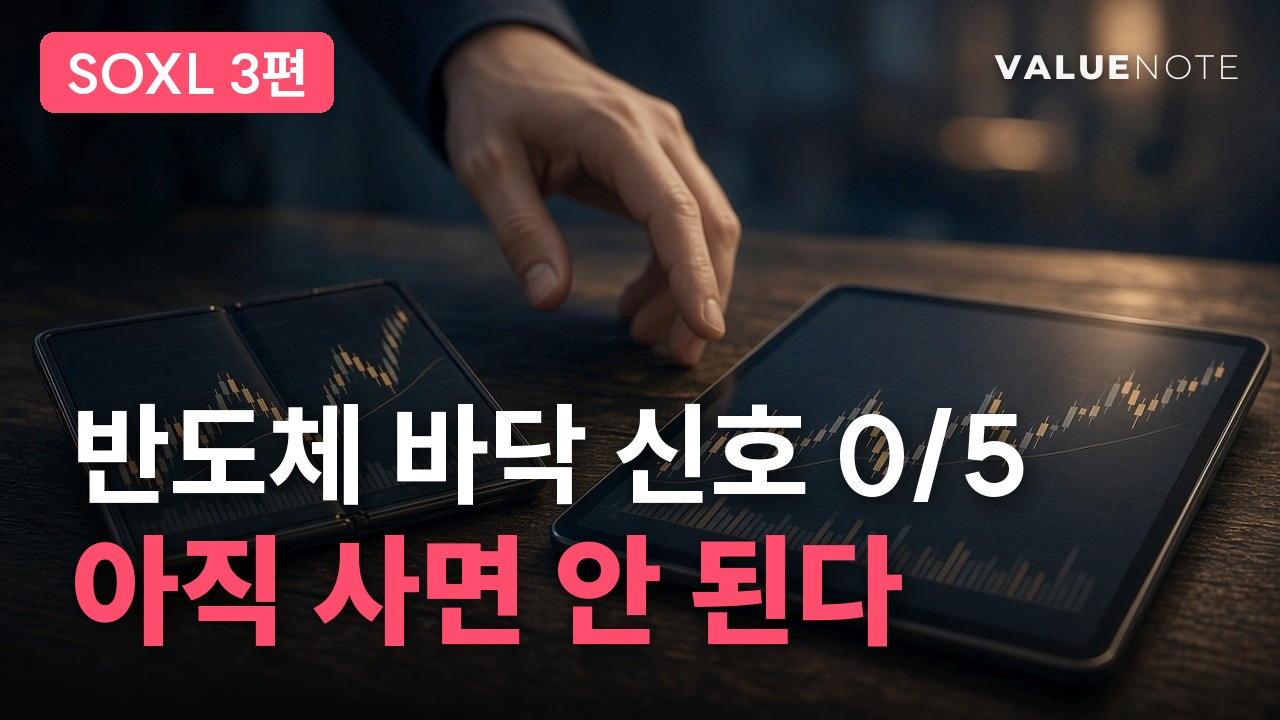
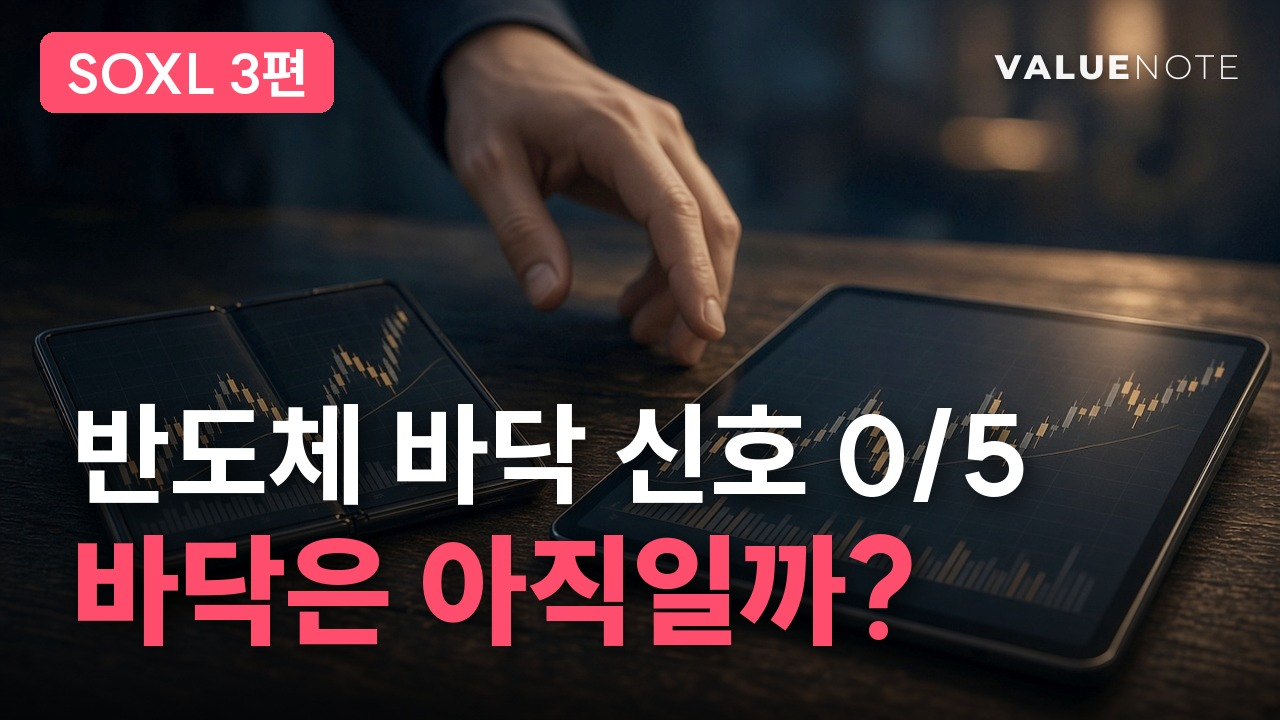
SOXL3 썸네일 A·C 단정 표현 제거 [skip ci]
Claude-Session: https://claude.ai/code/session_01KaYReLT3Q8BHsPVoLFDxpG

Changed region(s): [[0.0312, 0.7333, 0.7188, 0.9167]]

diff --git a/scripts/youtube/long/drafts/L261123-soxl-3_make_spec.py b/scripts/youtube/long/drafts/L261123-soxl-3_make_spec.py
@@ -521,11 +521,11 @@ spec.update({
  "photo_lift": 1.25,   # 대표 22:42 사진 약간 밝게
  "gate_waive": {"r196": "대표 2026-11-21 인트로·아웃트로 양식 자유", "②": "대표 2026-11-22 21:54 '그담에 또 버핏은 이렇게 했다를 이야기할 필요는 없다' — 버핏 콜백 삭제로 콜백 수가 줄어도 진행", "⑦": "대표 2026-11-22 20:10 '그래 그러면 SOXL3편을 그렇게 갈게' · 20:11 '오케이 그럼 너말대로 할게' — 제목을 '끝나는 신호 5가지' 각도로 변경(썸네일 3안은 그대로)"},
  "thumb_fixed": "2026-11-22 20:53 대표 확정 — 제목 'SOXL·반도체 급락, 끝나는 신호 5가지' · 썸네일 3안 아랫줄 '끝나는 신호 5가지' 공통(drafts/L261123-soxl-3_thumbs.py) — 렌더가 덮어쓰지 않게",
- "thumb": {"photo": "il_L261105g_cin_panic.jpeg", "focus_x": 0.6, "l1": "반도체 바닥 신호 0/5", "l2": "아직 물타지 마라", "pos": "left"},
+ "thumb": {"photo": "il_L261105g_cin_panic.jpeg", "focus_x": 0.6, "l1": "반도체 바닥 신호 0/5", "l2": "물타기 전에 꼭 보세요", "pos": "left"},
  "ab_sets": [
-  {"key": "a", "default": True, "title": "SOXL -90%, 반도체 바닥은 언제? | 30년간 13번 폭락, 바닥마다 반복된 신호 5가지", "file": "thumb_a.jpg", "type": "A 반도체 바닥 신호 0/5 / 아직 물타지 마라 (대표 22:30 세게)"},
+  {"key": "a", "default": True, "title": "SOXL -90%, 반도체 바닥은 언제? | 30년간 13번 폭락, 바닥마다 반복된 신호 5가지", "file": "thumb_a.jpg", "type": "A 반도체 바닥 신호 0/5 / 물타기 전에 꼭 보세요 (대표 13:17 단정 표현 제외)"},
   {"key": "b", "title": "SOXL -90%, 반도체 바닥은 언제? | 30년간 13번 폭락, 바닥마다 반복된 신호 5가지", "file": "thumb_b.jpg", "type": "B 고점 대비 -90% 폭락 · SOXL 300 → 30달러 / 지금 물타도 될까? (2편 틀, 대표 23:29)"},
-  {"key": "c", "title": "SOXL -90%, 반도체 바닥은 언제? | 30년간 13번 폭락, 바닥마다 반복된 신호 5가지", "file": "thumb_c.jpg", "type": "C 반도체 바닥 신호 0/5 / 아직 사면 안 된다 (대표 22:35)"}],
+  {"key": "c", "title": "SOXL -90%, 반도체 바닥은 언제? | 30년간 13번 폭락, 바닥마다 반복된 신호 5가지", "file": "thumb_c.jpg", "type": "C 반도체 바닥 신호 0/5 / 바닥은 아직일까? (대표 13:17 단정 표현 제외)"}],
  "scenes": sc,
 })
 json.dump(spec, open(OUT, 'w'), ensure_ascii=False, indent=1)

diff --git a/scripts/youtube/long/drafts/L261123-soxl-3_thumbs.py b/scripts/youtube/long/drafts/L261123-soxl-3_thumbs.py
@@ -12,9 +12,9 @@ LIB = os.path.join(HERE, "..", "..", "..", "blog", "media", "lib")
 TW, TH = 1280, 720; PINK = vn2.PINK; WHITE = (255, 255, 255, 255)
 
 SETS = [   # 20:53 대표: 제목 각도 '반도체 급락, 끝나는 신호 5가지'로 — 아랫줄은 세 안 공통, 윗줄만 바꿔 A/B 테스트
-    dict(file="thumb_a.jpg", photo="il_L261105g_cin_panic.jpeg", fx=.62, l1="반도체 바닥 신호 0/5", l2=("아직 물타지 마라", "")),   # 22:30 대표 "세게"
+    dict(file="thumb_a.jpg", photo="il_L261105g_cin_panic.jpeg", fx=.62, l1="반도체 바닥 신호 0/5", l2=("물타기 전에 꼭 보세요", "")),   # 22:30 대표 "세게"
     dict(file="thumb_b.jpg", photo="il_L261107s_red_cliff.jpeg", fx=.6, chip="고점 대비 -90% 폭락", l1=("SOXL 300 → ", "30달러"), l2=("지금 물타도 될까?", ""), ep2=True),   # 23:29 대표: 2편 썸네일(300 → 46달러)을 기억하는 시청자용 — 같은 틀, 지금 디자인
-    dict(file="thumb_c.jpg", photo="il_L261113a_phone_vs_chart.jpeg", fx=.55, l1="반도체 바닥 신호 0/5", l2=("아직 사면 안 된다", "")),
+    dict(file="thumb_c.jpg", photo="il_L261113a_phone_vs_chart.jpeg", fx=.55, l1="반도체 바닥 신호 0/5", l2=("바닥은 아직일까?", "")),
 ]
 
 
